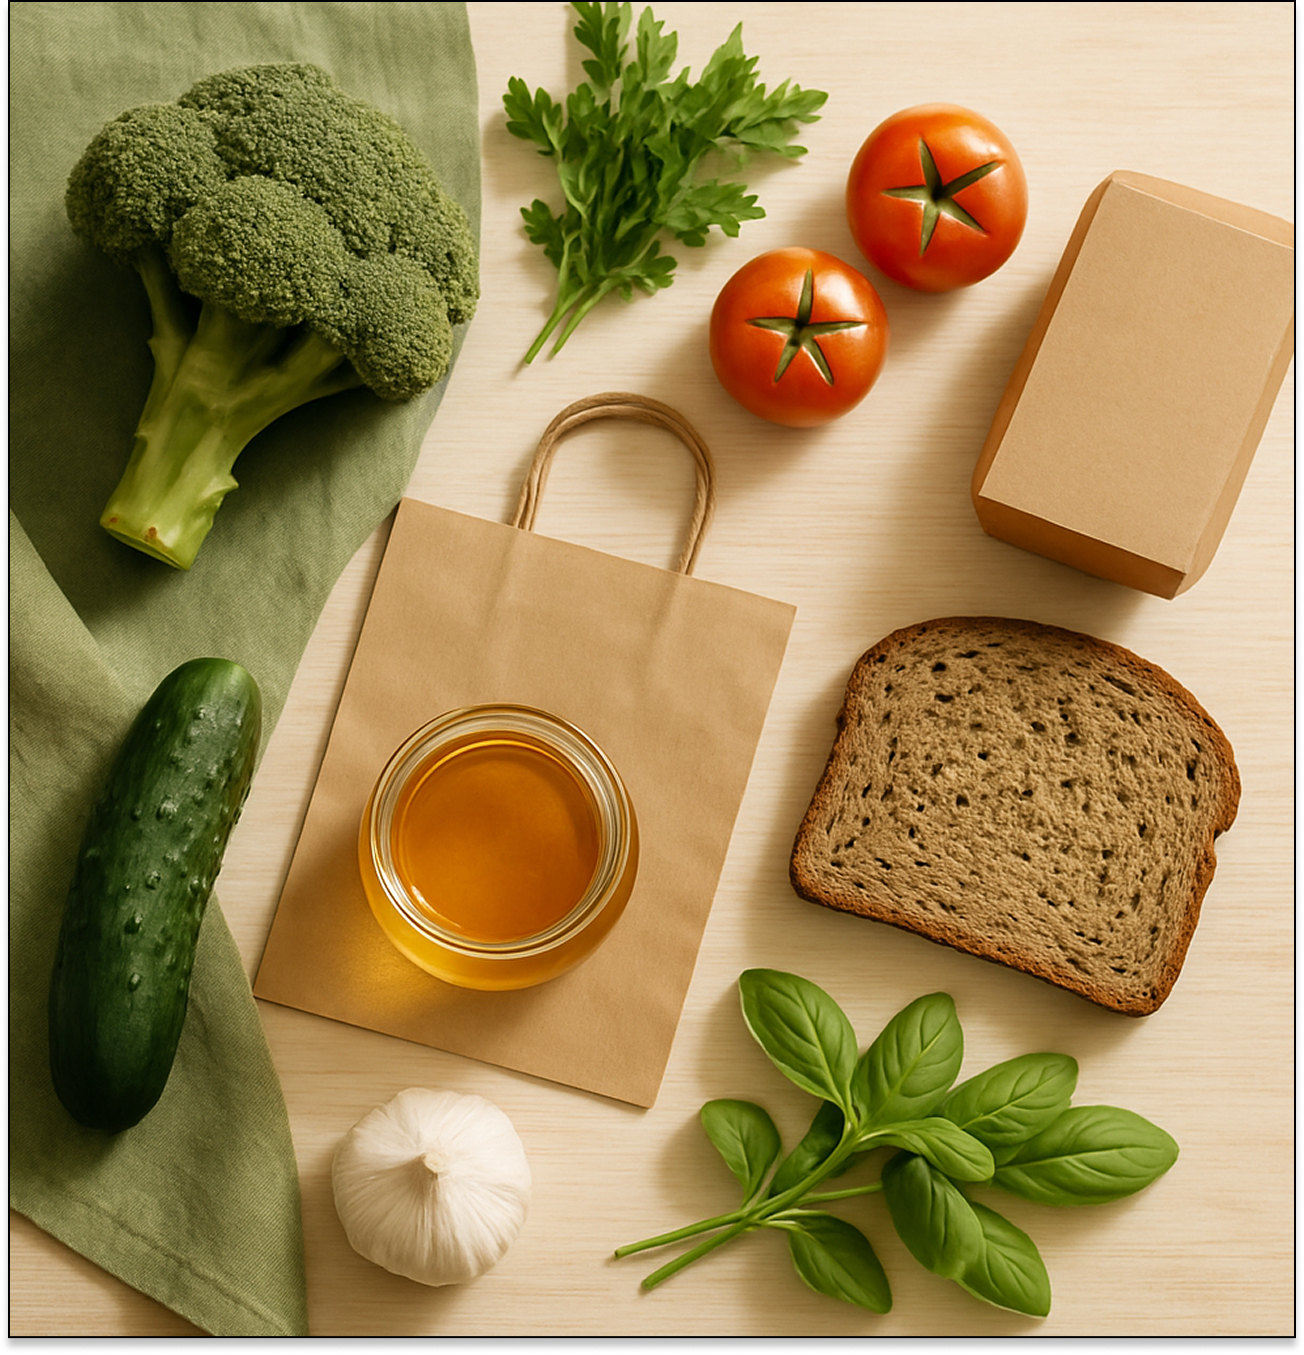
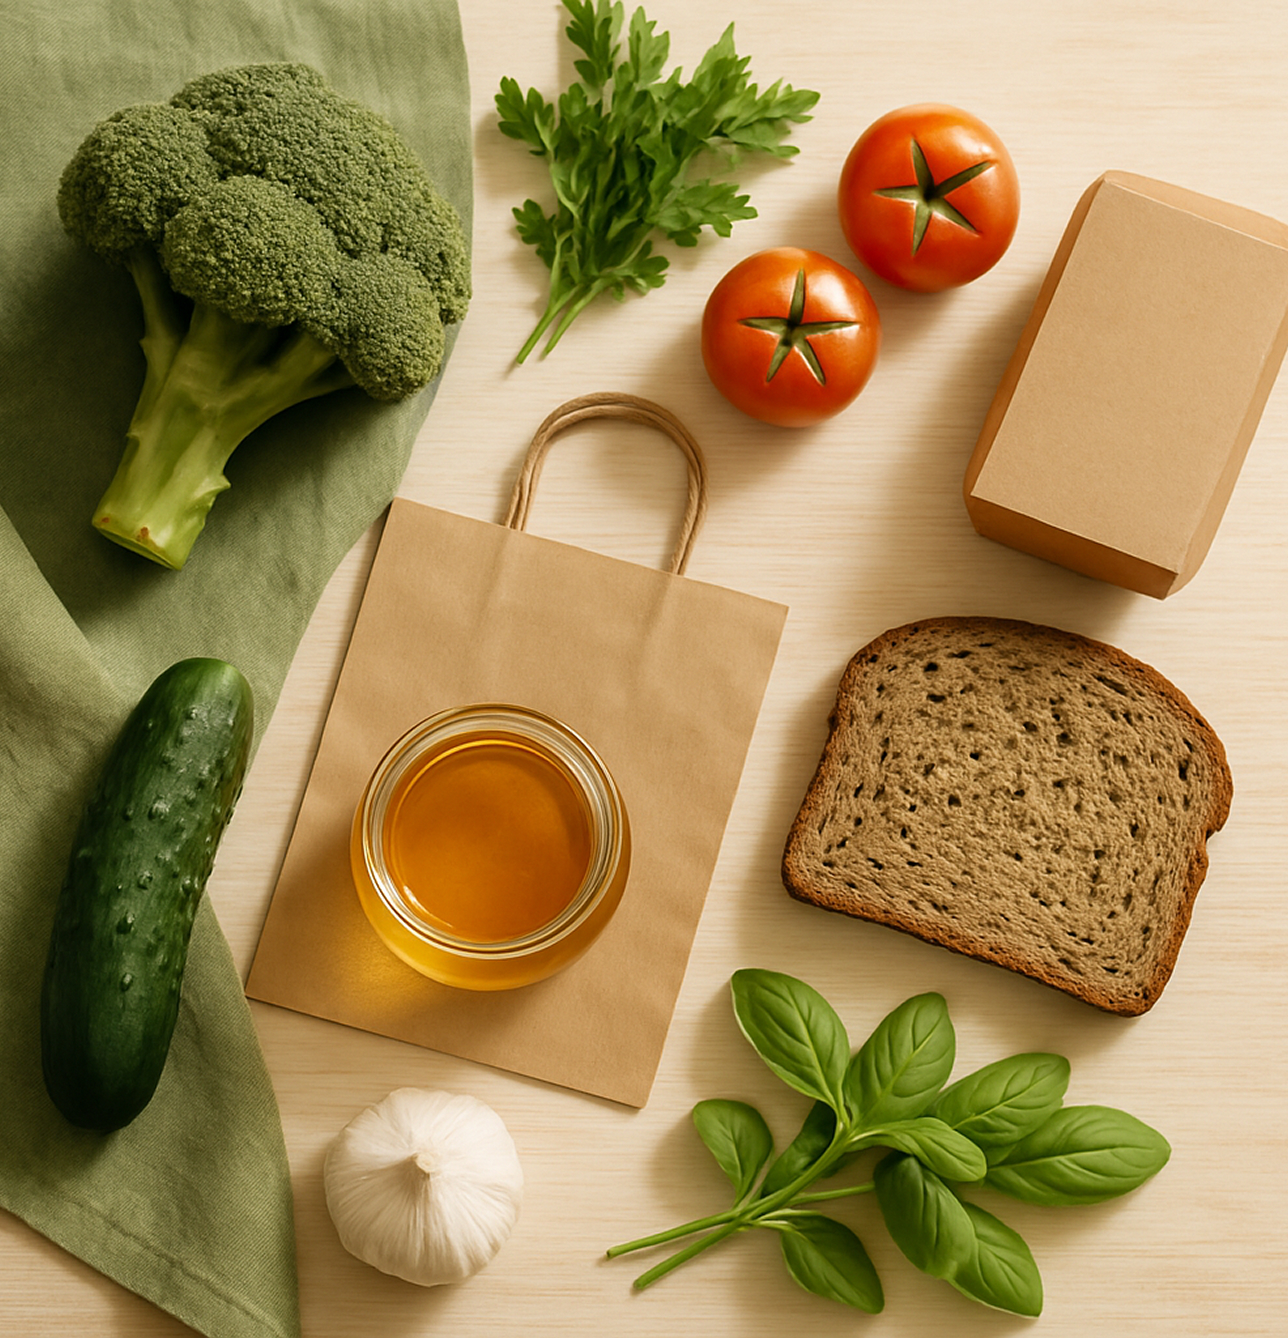
исправлены картинки

diff --git a/src/css/benefits.css b/src/css/benefits.css
@@ -35,14 +35,30 @@
   flex-basis: calc((100% - 72px) / 4);
 }
 
+/* .benefits-img {
+  display: block;
+  max-width: 100%;
+  height: auto; 
+  width: 343px;
+} */
+
 @media screen and (min-width: 768px) {
   .benefits-item {
     flex-basis: calc((100% - 72px) / 2);
   }
+  /* .benefits-img {
+    width: 356px;
+  } */
 }
 
 @media screen and (min-width: 1158px) {
   .benefits-item {
     flex-basis: calc((100% - 72px) / 4);
+  }
+  .benefits-img {
+    display: block;
+    border: 1px solid #000000;
+    box-sizing: border-box;
+    box-shadow: 0px 4px 4px rgba(0, 0, 0, 0.25);
   }
 }

diff --git a/src/partials/benefits.html b/src/partials/benefits.html
@@ -2,14 +2,14 @@
     <div class="container benefits-container">
 
         <picture>
-            <source media="(max-width: 767px)"
-                srcset="./img/inna/benefits-mobile.jpg 1x, ./img/inna/[email redacted] 2x" />
+            <source media="(min-width: 1158px)"
+                srcset="./img/inna/benefits-desktop.jpg 1x, ./img/inna/[email redacted] 2x" />
 
-            <source media="(max-width: 1157px)"
+            <source media="(min-width: 768px)"
                 srcset="./img/inna/benefits-tablet.jpg 1x, ./img/inna/[email redacted] 2x" />
 
-            <img src="./img/inna/benefits-desktop.jpg" srcset="./img/inna/[email redacted] 2x" width="644"
-                height="669" alt="Наши преимущества" />
+            <img class="benefits-img" src="./img/inna/benefits-mobile.jpg" srcset="./img/inna/[email redacted] 2x"
+                alt="" />
         </picture>
 
         <h2 class="title-benefits">Why Choose Organic?</h2>